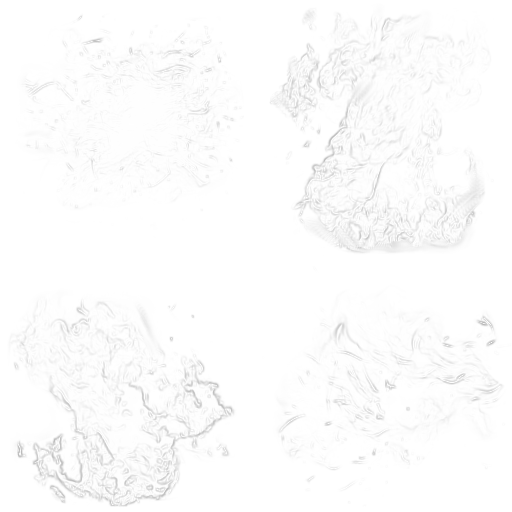
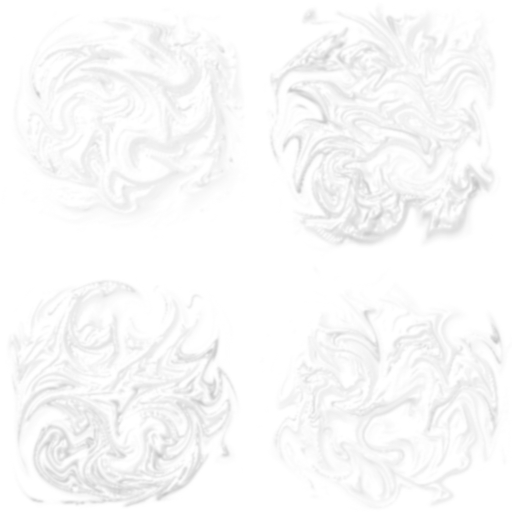
particle improvements
Former-commit-id: d496001ca1b5f058fe1cf0a949045dfd480a1436

diff --git a/src/game/projs.cpp b/src/game/projs.cpp
@@ -585,8 +585,8 @@ namespace projs
 			}
 			case WEAP_FLAMER:
 			{
-				part_create(PART_SMOKE_LERP, 100, from, 0x333333, 2, 0.25f, -20);
-				if(muzzlechk(muzzleflash, d)) part_create(PART_FIREBALL, 50, from, firecols[rnd(FIRECOLOURS)], 1.5f, muz, -10, 0, d);
+				part_create(PART_SMOKE_LERP, 150, from, 0x333333, 2, 0.25f, -20);
+				if(muzzlechk(muzzleflash, d)) part_create(PART_FIREBALL, 100, from, firecols[rnd(FIRECOLOURS)], 1.5f, muz, -10, 0, d);
 				adddynlight(from, 48, vec(1.1f, 0.3f, 0.01f), 100, 0, DL_FLASH);
 				break;
 			}
@@ -599,7 +599,7 @@ namespace projs
 			}
 			case WEAP_RIFLE: case WEAP_INSTA:
 			{
-				part_create(PART_SMOKE_LERP, 100, from, 0x444444, 0.8f, 0.25f, -40);
+				part_create(PART_SMOKE_LERP, 150, from, 0x444444, 0.8f, 0.25f, -40);
 				if(muzzlechk(muzzleflash, d)) part_create(PART_PLASMA, 75, from, 0x6611FF, 1.25f, muz, 0, 0, d);
 				if(muzzlechk(muzzleflare, d))
 				{
@@ -688,12 +688,12 @@ namespace projs
 					if(proj.movement > 0.f)
 					{
 						bool effect = false;
-						float size = WEAP2(proj.weap, explode, proj.flags&HIT_ALT)*proj.lifesize;
+						float size = WEAP2(proj.weap, explode, proj.flags&HIT_ALT)*proj.lifesize, blend = clamp(1.25f-proj.lifespan, 0.55f, 0.85f)*(0.5f+(rnd(50)/100.f));
 						if(flamertrail && lastmillis-proj.lasteffect >= flamerdelay) { effect = true; proj.lasteffect = lastmillis; }
 						int col = ((int(254*max((1.f-proj.lifespan),proj.flags&HIT_ALT ? 0.6f : 0.4f))<<16)+1)|((int(112*max((1.f-proj.lifespan),0.25f))+1)<<8),
 							len = effect ? max(int(flamerlength*(proj.flags&HIT_ALT ? 2 : 1)*max(proj.lifespan, 0.1f)), 1) : 1;
-						if(flamerhint) part_create(PART_HINT_SOFT, 1, proj.o, 0x120226, size*1.5f, clamp(1.25f-proj.lifespan, 0.5f, 1.f)*(proj.flags&HIT_ALT ? 0.75f : 1.f));
-						part_create(PART_FIREBALL_SOFT, len, proj.o, col, size, clamp(1.25f-proj.lifespan, 0.55f, 0.85f), -15);
+						if(flamerhint && effect) part_create(PART_HINT_SOFT, 1, proj.o, 0x120226, size*1.5f, blend*(proj.flags&HIT_ALT ? 0.75f : 1.f));
+						part_create(PART_FIREBALL_SOFT, len, proj.o, col, size, blend, -15);
 					}
 					break;
 				}
@@ -740,7 +740,7 @@ namespace projs
 				}
 				case WEAP_PLASMA:
 				{
-					if(proj.flags&HIT_ALT) part_fireball(proj.o, WEAP2(proj.weap, explode, proj.flags&HIT_ALT)*0.5f*proj.lifesize, PART_EXPLOSION, 1, 0x225599, 1.f, 0.75f);
+					if(proj.flags&HIT_ALT) part_fireball(proj.o, WEAP2(proj.weap, explode, proj.flags&HIT_ALT)*0.5f*proj.lifesize, PART_EXPLOSION, 1, 0x225599, 1.f, 0.5f);
 					part_create(PART_PLASMA_SOFT, 1, proj.o, proj.flags&HIT_ALT ? 0x4488EE : 0x55AAEE, WEAP2(proj.weap, explode, proj.flags&HIT_ALT)*proj.lifesize, proj.flags&HIT_ALT ? 1.f : clamp(1.5f-proj.lifespan, 0.5f, 1.f));
 					part_create(PART_ELECTRIC_SOFT, 1, proj.o, proj.flags&HIT_ALT ? 0x4488EE : 0x55AAEE, WEAP2(proj.weap, explode, proj.flags&HIT_ALT)*0.5f*proj.lifesize, proj.flags&HIT_ALT ? 1.f : clamp(1.5f-proj.lifespan, 0.5f, 1.f));
 					break;
@@ -790,7 +790,7 @@ namespace projs
 					loopi(steps)
 					{
 						float res = float(steps-i)/float(steps), psize = clamp(radius*(size+0.1f)*res, 0.1f, radius),
-							span = clamp(1.25f-proj.lifespan, 0.25f, 1.f);
+							span = clamp(1.25f-proj.lifespan, 0.25f, 1.f)*(0.5f+(rnd(50)/100.f));
 						int col = ((int(244*max(res,0.4f))<<16)+1)|((int(64*max(res,0.1f)*span)+1)<<8);
 						part_create(PART_FIREBALL_SOFT, 1, pos, col, psize, span, -15);
 						pos.add(dir); if(proj.o.dist(pos) > proj.movement) break;
@@ -842,7 +842,7 @@ namespace projs
 						if(WEAP2(proj.weap, explode, proj.flags&HIT_ALT))
 						{
 							quake(proj.o, proj.weap, proj.flags);
-							part_fireball(proj.o, WEAP2(proj.weap, explode, proj.flags&HIT_ALT)*proj.radius*0.5f, PART_EXPLOSION, 100, 0x222222, 1.f);
+							part_fireball(proj.o, WEAP2(proj.weap, explode, proj.flags&HIT_ALT)*proj.radius*0.5f, PART_EXPLOSION, 100, 0x222222, 1.f, 0.5f);
 							adddecal(DECAL_SCORCH_SHORT, proj.o, proj.norm, WEAP2(proj.weap, explode, proj.flags&HIT_ALT));
 							adddynlight(proj.o, 1.1f*WEAP2(proj.weap, explode, proj.flags&HIT_ALT)*proj.radius, vec(0.2f, 0.2f, 0.2f), proj.flags&HIT_ALT ? 300 : 100, 10);
 						}
@@ -856,8 +856,8 @@ namespace projs
 						{
 							if(proj.weap == WEAP_FLAMER)
 							{
-								part_create(PART_FIREBALL_SOFT, proj.flags&HIT_ALT ? 650 : 150, proj.o, firecols[rnd(FIRECOLOURS)], WEAP2(proj.weap, explode, proj.flags&HIT_ALT)*0.5f, 0.5f, -15);
-								part_create(PART_SMOKE_LERP_SOFT, proj.flags&HIT_ALT ? 750 : 250, proj.o, 0x666666, WEAP2(proj.weap, explode, proj.flags&HIT_ALT)*0.75f, 0.5f, -25);
+								part_create(PART_FIREBALL_SOFT, proj.flags&HIT_ALT ? 750 : 250, proj.o, firecols[rnd(FIRECOLOURS)], WEAP2(proj.weap, explode, proj.flags&HIT_ALT)*0.5f, 0.5f+(rnd(50)/100.f), -15);
+								part_create(PART_SMOKE_LERP_SOFT, proj.flags&HIT_ALT ? 1000 : 500, proj.o, 0x666666, WEAP2(proj.weap, explode, proj.flags&HIT_ALT)*0.75f, 0.5f+(rnd(50)/100.f), -25);
 							}
 							else
 							{
@@ -865,11 +865,11 @@ namespace projs
 								loopi(rnd(15)+5)
 								{
 									vec to(proj.o); loopk(3) to.v[k] += rnd(deviation*2)-deviation;
-									part_create(PART_FIREBALL_SOFT, 1500, to, firecols[rnd(FIRECOLOURS)], WEAP2(proj.weap, explode, proj.flags&HIT_ALT)*0.5f, 0.75f, -15);
+									part_create(PART_FIREBALL_SOFT, 1500, to, firecols[rnd(FIRECOLOURS)], WEAP2(proj.weap, explode, proj.flags&HIT_ALT)*0.5f, 0.5f+(rnd(50)/100.f), -15);
 								}
 								part_create(PART_PLASMA_SOFT, 1000, proj.o, 0xDD4400, WEAP2(proj.weap, explode, proj.flags&HIT_ALT)*0.5f); // corona
 								quake(proj.o, proj.weap, proj.flags);
-								part_fireball(proj.o, WEAP2(proj.weap, explode, proj.flags&HIT_ALT)*1.5f, PART_EXPLOSION, 750, 0xAA4400, 1.f);
+								part_fireball(proj.o, WEAP2(proj.weap, explode, proj.flags&HIT_ALT)*1.5f, PART_EXPLOSION, 750, 0xAA4400, 1.f, 0.5f);
 								loopi(rnd(50)+25) create(proj.o, vec(proj.o).add(proj.vel), true, proj.owner, PRJ_DEBRIS, rnd(5001)+1500, 0, rnd(501), rnd(101)+50);
 								adddecal(DECAL_ENERGY, proj.o, proj.norm, WEAP2(proj.weap, explode, proj.flags&HIT_ALT)*0.7f, bvec(196, 24, 0));
 								part_create(PART_SMOKE_LERP_SOFT, 2000, proj.o, 0x333333, WEAP2(proj.weap, explode, proj.flags&HIT_ALT), 0.5f, -25);
@@ -887,7 +887,7 @@ namespace projs
 						if(WEAP2(proj.weap, explode, proj.flags&HIT_ALT))
 						{
 							quake(proj.o, proj.weap, proj.flags);
-							part_fireball(proj.o, WEAP2(proj.weap, explode, proj.flags&HIT_ALT)*proj.radius*0.5f, PART_EXPLOSION, 100, proj.weap == WEAP_SMG ? 0xAA4400 : 0xAA7711, 1.f);
+							part_fireball(proj.o, WEAP2(proj.weap, explode, proj.flags&HIT_ALT)*proj.radius*0.5f, PART_EXPLOSION, 100, proj.weap == WEAP_SMG ? 0xAA4400 : 0xAA7711, 1.f, 0.5f);
 							adddecal(DECAL_SCORCH_SHORT, proj.o, proj.norm, WEAP2(proj.weap, explode, proj.flags&HIT_ALT));
 							adddynlight(proj.o, 1.1f*WEAP2(proj.weap, explode, proj.flags&HIT_ALT)*proj.radius, vec(0.7f, proj.weap == WEAP_SMG ? 0.2f : 0.4f, 0.f), proj.flags&HIT_ALT ? 300 : 100, 10);
 						}
@@ -901,7 +901,7 @@ namespace projs
 							part_create(PART_ELECTRIC_SOFT, proj.flags&HIT_ALT ? 250 : 75, proj.o, 0x55AAEE, WEAP2(proj.weap, explode, proj.flags&HIT_ALT)*proj.radius*0.5f);
 							part_create(PART_SMOKE, proj.flags&HIT_ALT ? 500 : 250, proj.o, 0x8896A4, WEAP2(proj.weap, explode, proj.flags&HIT_ALT)*proj.radius*0.35f, 0.35f, -30);
 							quake(proj.o, proj.weap, proj.flags);
-							if(proj.flags&HIT_ALT) part_fireball(proj.o, WEAP2(proj.weap, explode, proj.flags&HIT_ALT)*proj.radius*0.5f, PART_EXPLOSION, 150, 0x225599, 1.f);
+							if(proj.flags&HIT_ALT) part_fireball(proj.o, WEAP2(proj.weap, explode, proj.flags&HIT_ALT)*proj.radius*0.5f, PART_EXPLOSION, 150, 0x225599, 1.f, 0.5f);
 							adddecal(DECAL_ENERGY, proj.o, proj.norm, WEAP2(proj.weap, explode, proj.flags&HIT_ALT)*proj.radius*0.75f, bvec(98, 196, 244));
 							adddynlight(proj.o, 1.1f*WEAP2(proj.weap, explode, proj.flags&HIT_ALT)*proj.radius, vec(0.1f, 0.4f, 0.6f), proj.flags&HIT_ALT ? 300 : 100, 10);
 						}
@@ -920,7 +920,7 @@ namespace projs
 						{
 							part_create(PART_PLASMA_SOFT, 500, proj.o, 0x4408AA, WEAP2(proj.weap, explode, proj.flags&HIT_ALT)*0.5f); // corona
 							quake(proj.o, proj.weap, proj.flags);
-							part_fireball(proj.o, WEAP2(proj.weap, explode, proj.flags&HIT_ALT)*0.75f, PART_EXPLOSION, 500, 0x2211FF, 1.f);
+							part_fireball(proj.o, WEAP2(proj.weap, explode, proj.flags&HIT_ALT)*0.75f, PART_EXPLOSION, 500, 0x2211FF, 1.f, 0.5f);
 							adddynlight(proj.o, WEAP2(proj.weap, explode, proj.flags&HIT_ALT), vec(0.4f, 0.05f, 1.f), 500, 10);
 							adddecal(DECAL_SCORCH, proj.o, proj.norm, 8.f);
 							adddecal(DECAL_ENERGY, proj.o, proj.norm, 4.f, bvec(98, 16, 254));

diff --git a/src/game/game.cpp b/src/game/game.cpp
@@ -98,7 +98,7 @@ namespace game
 	VAR(IDF_PERSIST, bloodfade, 1, 20000, INT_MAX-1);
 	FVAR(IDF_PERSIST, gibscale, 0, 1, 1000);
 	VAR(IDF_PERSIST, gibfade, 1, 20000, INT_MAX-1);
-	VAR(IDF_PERSIST, fireburnfade, 0, 75, INT_MAX-1);
+	VAR(IDF_PERSIST, fireburnfade, 100, 250, INT_MAX-1);
 	FVAR(IDF_PERSIST, impulsescale, 0, 1, 1000);
 	VAR(IDF_PERSIST, impulsefade, 0, 200, INT_MAX-1);
 
@@ -390,13 +390,13 @@ namespace game
 			int num = int((effect ? 25 : 5)*impulsescale), len = effect ? impulsefade : impulsefade/5;
 			if(num > 0 && len > 0)
 			{
-				float intensity = 0.25f+(rnd(75)/100.f);
+				float intensity = 0.25f+(rnd(75)/100.f), blend = 0.5f+(rnd(50)/100.f);
 				if(d->type == ENT_PLAYER || d->type == ENT_AI)
 				{
-					regularshape(PART_FIREBALL, int(d->radius), firecols[effect ? 0 : rnd(FIRECOLOURS)], 21, num, len, d->lfoot, intensity, 0.5f, -15, 0, 5);
-					regularshape(PART_FIREBALL, int(d->radius), firecols[effect ? 0 : rnd(FIRECOLOURS)], 21, num, len, d->rfoot, intensity, 0.5f, -15, 0, 5);
+					regularshape(PART_FIREBALL, int(d->radius), firecols[effect ? 0 : rnd(FIRECOLOURS)], 21, num, len, d->lfoot, intensity, blend, -15, 0, 5);
+					regularshape(PART_FIREBALL, int(d->radius), firecols[effect ? 0 : rnd(FIRECOLOURS)], 21, num, len, d->rfoot, intensity, blend, -15, 0, 5);
 				}
-				else regularshape(PART_FIREBALL, int(d->radius)*2, firecols[effect ? 0 : rnd(FIRECOLOURS)], 21, num, len, d->feetpos(), intensity, 0.5f, -15, 0, 5);
+				else regularshape(PART_FIREBALL, int(d->radius)*2, firecols[effect ? 0 : rnd(FIRECOLOURS)], 21, num, len, d->feetpos(), intensity, blend, -15, 0, 5);
 			}
 		}
 	}
@@ -405,10 +405,10 @@ namespace game
 	{
 		if(fireburntime && d->lastfire && (d != focus || thirdpersonview()) && lastmillis-d->lastfire < fireburntime)
 		{
-			int millis = lastmillis-d->lastfire; float pc = 1, intensity = 0.25f+(rnd(75)/100.f);
+			int millis = lastmillis-d->lastfire; float pc = 1, intensity = 0.25f+(rnd(75)/100.f), blend = 0.5f+(rnd(50)/100.f);
 			if(fireburntime-millis < fireburndelay) pc = float(fireburntime-millis)/float(fireburndelay);
 			else pc = 0.75f+(float(millis%fireburndelay)/float(fireburndelay*4));
-			regular_part_create(PART_FIREBALL_SOFT, max(fireburnfade, 1), d->headpos(-d->height*0.35f), firecols[rnd(FIRECOLOURS)], d->height*deadscale(d, intensity*pc), 0.75f, -15, 0);
+			regular_part_create(PART_FIREBALL_SOFT, max(fireburnfade, 100), d->headpos(-d->height*0.35f), firecols[rnd(FIRECOLOURS)], d->height*deadscale(d, intensity*pc), blend*pc, -15, 0);
 		}
 	}
 

diff --git a/src/engine/renderparticles.cpp b/src/engine/renderparticles.cpp
@@ -82,7 +82,7 @@ struct partrenderer
 			ts = lastmillis-p->millis;
 			blend = max(255-((ts<<8)/p->fade), 0);
 			int weight = p->grav;
-			if(type&PT_SHRINK || type&PT_GROW)
+			if((type&PT_SHRINK || type&PT_GROW) && p->fade >= emitmillis*2)
 			{
 				float amt = clamp(ts/float(p->fade), 0.f, 1.f);
 				if(type&PT_SHRINK)
@@ -1025,8 +1025,8 @@ static partrenderer *parts[] =
 	new quadrenderer("particles/fire", PT_PART|PT_GLARE|PT_RND4|PT_FLIP|PT_ROT|PT_SHRINK),
 	new softquadrenderer("particles/plasma", PT_PART|PT_GLARE|PT_FLIP|PT_ROT|PT_SHRINK),
 	new quadrenderer("particles/plasma", PT_PART|PT_GLARE|PT_FLIP|PT_ROT|PT_SHRINK),
-	new softquadrenderer("particles/electric", PT_PART|PT_GLARE|PT_FLIP|PT_ROT),
-	new quadrenderer("particles/electric", PT_PART|PT_GLARE|PT_FLIP|PT_ROT),
+	new softquadrenderer("particles/electric", PT_PART|PT_GLARE|PT_RND4|PT_FLIP|PT_ROT|PT_SHRINK),
+	new quadrenderer("particles/electric", PT_PART|PT_GLARE|PT_RND4|PT_FLIP|PT_ROT|PT_SHRINK),
 	new quadrenderer("particles/fire", PT_PART|PT_GLARE|PT_FLIP|PT_RND4|PT_GLARE|PT_ROT|PT_SHRINK),
 	new taperenderer("particles/sflare", PT_TAPE|PT_GLARE),
 	new taperenderer("particles/mflare", PT_TAPE|PT_GLARE|PT_RND4|PT_VFLIP|PT_GLARE),

diff --git a/src/game/ctf.cpp b/src/game/ctf.cpp
@@ -474,7 +474,7 @@ namespace ctf
 			}
 			if(game::dynlighteffects) adddynlight(vec(to).add(vec(0, 0, enttype[FLAG].radius)), enttype[FLAG].radius*2, vec(teamtype[team].colour>>16, (teamtype[team].colour>>8)&0xFF, teamtype[team].colour&0xFF).mul(2.f/0xFF), 500, 250);
 		}
-		if(from.x >= 0 && to.x >= 0) part_trail(PART_FIREBALL, 250, from, to, teamtype[team].colour, 2, 1, -5);
+		if(from.x >= 0 && to.x >= 0) part_trail(PART_FIREBALL, 500, from, to, teamtype[team].colour, 2, 1, -5);
     }
 
     void returnflag(gameent *d, int i)

diff --git a/src/game/client.cpp b/src/game/client.cpp
@@ -1104,7 +1104,7 @@ namespace client
 					{
 						case SPHY_JUMP:
 						{
-							playsound(S_JUMP, t->o, t); regularshape(PART_SMOKE, int(t->radius), 0x111111, 21, 20, 100, t->feetpos(), 1, 1, -10, 0, 10.f);
+							playsound(S_JUMP, t->o, t); regularshape(PART_SMOKE, int(t->radius), 0x111111, 21, 20, 150, t->feetpos(), 1, 1, -10, 0, 10.f);
 							t->actiontime[AC_JUMP] = lastmillis;
 							break;
 						}

diff --git a/src/game/physics.cpp b/src/game/physics.cpp
@@ -653,7 +653,7 @@ namespace physics
 					d->action[AC_JUMP] = false;
 					d->resetphys();
 					playsound(S_JUMP, d->o, d);
-					regularshape(PART_SMOKE, int(d->radius), 0x111111, 21, 20, 100, d->feetpos(), 1, 1, -10, 0, 10.f);
+					regularshape(PART_SMOKE, int(d->radius), 0x111111, 21, 20, 150, d->feetpos(), 1, 1, -10, 0, 10.f);
 					client::addmsg(SV_PHYS, "ri2", d->clientnum, SPHY_JUMP);
 				}
 			}
